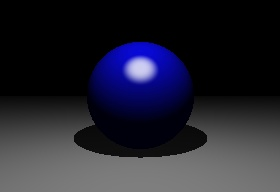
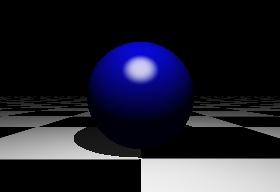
feat: add textures for planes & refactor compute color

diff --git a/raytrace.py b/raytrace.py
@@ -1,11 +1,42 @@
 import numpy as np
 # Local Modules
 from constants import MAX_COLOR_VALUE, RGB_CHANNELS
+import material
 import shaders
 import utils
 
 DARK_VALUE = np.array([15, 15, 15], dtype=float) / MAX_COLOR_VALUE
 LIGHT_VALUE = np.array([240, 240, 240], dtype=float) / MAX_COLOR_VALUE
+
+
+def get_dark_and_light(ph, obj):
+    if obj.material.material_type == material.TYPE_DIFFUSE:
+        dark = DARK_VALUE * obj.material.diffuse
+        light = LIGHT_VALUE * obj.material.diffuse
+    else:
+        u, v = obj.uvmap(ph)
+        texture_color = obj.material.texture.get_color(u, v)
+        dark = DARK_VALUE * texture_color
+        light = LIGHT_VALUE * texture_color
+    return dark, light
+
+
+def use_shader_type(shader_type, nh, l, dark, light, eye, ks, thickness):
+    if shader_type == shaders.TYPE_DIFFUSE_LIGHT:
+        color = shaders.diffuse_light(nh, l)
+    elif shader_type == shaders.TYPE_DIFFUSE_COLORS:
+        color = shaders.diffuse_colors(nh, l, dark, light)
+    elif shader_type == shaders.TYPE_DIFF_SPECULAR:
+        color = shaders.diffuse_with_specular(
+            nh, l, eye, dark, light, ks
+        )
+    elif shader_type == shaders.TYPE_DIFF_SPEC_BORDER:
+        color = shaders.diffuse_specular_border(
+            nh, l, eye, dark, light, ks, thickness
+        )
+    else:
+        color = np.zeros(RGB_CHANNELS)
+    return color
 
 
 def compute_color(ph, eye, obj, lights):
@@ -27,28 +58,15 @@ def compute_color(ph, eye, obj, lights):
         nh = obj.normal_at(ph)
         if nh is None:
             return np.zeros(3)
-        dark = DARK_VALUE * obj.material.diffuse
-        light = LIGHT_VALUE * obj.material.diffuse
+        dark, light = get_dark_and_light(ph, obj)
         ks = obj.material.specular
         thickness = obj.material.border
-        # Choose the corresponding one
-        if obj.shader_type == shaders.TYPE_DIFFUSE_LIGHT:
-            color = shaders.diffuse_light(nh, l)
-        elif obj.shader_type == shaders.TYPE_DIFFUSE_COLORS:
-            color = shaders.diffuse_colors(nh, l, dark, light)
-        elif obj.shader_type == shaders.TYPE_DIFF_SPECULAR:
-            color = shaders.diffuse_with_specular(
-                nh, l, eye, dark, light, ks
-            )
-        elif obj.shader_type == shaders.TYPE_DIFF_SPEC_BORDER:
-            color = shaders.diffuse_specular_border(
-                nh, l, eye, dark, light, ks, thickness
-            )
-        else:
-            color = np.zeros(RGB_CHANNELS)
+        # Choose the corresponding shader
+        color = use_shader_type(
+            obj.shader_type, nh, l, dark, light, eye, ks, thickness
+        )
         final_color += color
     # Ensure the colors are between 0 and 255
-    # (probably it would be good to average the contributions of each light?)
     final_color /= len(lights)
     final_color = np.clip(final_color, 0, MAX_COLOR_VALUE)
     return final_color.astype(np.uint8)

diff --git a/texture.py b/texture.py
@@ -1,0 +1,77 @@
+import numpy as np
+from PIL import Image
+
+
+class Texture:
+    """
+    Represent a texture for the material of an object.
+    """
+    def __init__(self):
+        pass
+
+    def get_color(self, *args):
+        """
+        Return the color for a point in texture coordinates
+        """
+        pass
+
+
+class ImageTexture(Texture):
+    """
+    Represent a texture that uses an image.
+
+    Attributes:
+        img_filename(str): Path to the image file
+        img(numpy.array): Image for this texture as a numpy array
+    """
+    def __init__(self, img_filename):
+        Texture.__init__(self)
+        self.img_filename = img_filename
+        img_obj = Image.open(img_filename)
+        self.img = np.asarray(img_obj)
+        self.h, self.w, _ = self.img.shape
+
+    def get_color(self, u, v):
+        """
+        Get the color for one point (u, v) inside the texture, it doesn't have
+        to be between 0 and 1, this will use tiling.
+
+        Args:
+            u(float): horizontal coordinate of the point
+            v(float): vertical coordinate of the point
+
+        Returns:
+            numpy.array: color for this point, interpolating the 4 closest
+                pixels
+        """
+        # Use tiling
+        u = u - np.floor(u)
+        if u < 0:
+            u = 1 - u
+        v = v - np.floor(v)
+        if v < 0:
+            v = 1 - v
+        x = u * self.w
+        y = v * self.h
+        # Flip y value to go from bottom to top
+        y = self.h - y
+        # Interpolate values of pixel neighborhood of x and y
+        I = int(np.round(x))
+        J = int(np.round(y))
+        # But not in the borders
+        if I == 0 or J == 0 or I == self.w or J == self.h:
+            if I == self.w:
+                I -= 1
+            if J == self.h:
+                J -= 1
+            return self.img[I][J]
+        # t and s are interpolation parameters that go from 0 to 1
+        t = x - I + 0.5
+        s = y - J + 0.5
+        color = (
+            self.img[J - 1][I - 1] * (1 - t) * (1 - s)
+            + self.img[J - 1][I] * t * (1 - s)
+            + self.img[J][I - 1] * (1 - t) * s
+            + self.img[J][I] * t * s
+        )
+        return color

diff --git a/object.py b/object.py
@@ -1,3 +1,8 @@
+import numpy as np
+# Local modules
+import utils
+
+
 class Object:
     """
     Represent a generic object inside the scene that has a specific position,
@@ -18,7 +23,13 @@ class Object:
         """
         Get the normal at point p.
         """
-        return None
+        pass
+
+    def uvmap(self, p):
+        """
+        Map point p into texture coordinates u, v for this object.
+        """
+        pass
 
 
 class Sphere(Object):
@@ -47,13 +58,37 @@ class Plane(Object):
     Attributes:
         position(numpy.array): A 3D point inside the plane
         material(Material): The material to be rendered for this object
-        n(numpy.array): The normal for this plane
+        n(numpy.array): The unit normal for this plane
+        p1(numpy.array): Another point inside this plane
     """
 
-    def __init__(self, position, material, shader_type, n):
-       Object.__init__(self, position, material, shader_type)
-       self.n = n
+    def __init__(self, position, material, shader_type, n, p1, sx=1, sy=1):
+        Object.__init__(self, position, material, shader_type)
+        # Making sure n is normalized
+        self.n = utils.normalize(n)
+        self.p1 = p1
+        self.sx = sx
+        self.sy = sy
+        self.n0 = utils.normalize(p1 - position)
+        self.n1 = np.cross(self.n0, n)
 
     def normal_at(self, p):
         # This doesn't validate that p is in the surface
         return self.n
+
+    def uvmap(self, p):
+        """
+        Map this point into texture coordinates u, v for this Plane.
+
+        Args:
+            p(numpy.array): Point inside this Plane that will be transformed
+                into texture coordinates (u, v)
+
+        Returns:
+            numpy.array: Point (u, v) in texture coordinates
+        """
+        dif_vector = p - self.position
+        u = np.dot(dif_vector, self.n0) / self.sx
+        v = np.dot(dif_vector, self.n1) / self.sy
+        texture_coord = np.array([u, v])
+        return texture_coord

diff --git a/main.py b/main.py
@@ -12,6 +12,7 @@ from object import Plane, Sphere
 from render import render, render_no_aa
 from scene import Scene
 import shaders
+from texture import ImageTexture
 import utils
 
 # Width and Height of the image window in pixels
@@ -23,6 +24,7 @@ H_SAMPLES = 4
 MAX_QUALITY = 95
 DEFAULT_KS = 0.8
 DEFAULT_THICKNESS = 0.7
+PLANE_TEXTURE_FILENAME = "textures/checkers.png"
 OUTPUT_IMG_FILENAME = "output.jpg"
 
 
@@ -50,14 +52,30 @@ def setup_lights():
 def setup_objects():
     # Plane Object
     plane_pos = np.array([0, -25, 0], dtype=float)
-    plane_mtl = Material(material.COLOR_GRAY, material.DIFFUSE)
+    plane_p1 = np.array([1, -25, 0], dtype=float)
+    plane_mtl = Material(material.COLOR_GRAY, material.TYPE_TEXTURED)
     plane_shader = shaders.TYPE_DIFFUSE_COLORS
     plane_normal = np.array([0, 1, 0], dtype=float)
-    plane = Plane(plane_pos, plane_mtl, plane_shader, plane_normal)
+    plane_texture = ImageTexture(PLANE_TEXTURE_FILENAME)
+    plane_mtl.add_texture(plane_texture)
+    plane_sx = 1000
+    plane_sy = 1000
+    plane = Plane(
+        plane_pos,
+        plane_mtl,
+        plane_shader,
+        plane_normal,
+        plane_p1,
+        plane_sx,
+        plane_sy
+    )
     # Sphere Object
     sphere_pos = np.array([0, 0, 100], dtype=float)
     sphere_mtl = Material(
-        material.COLOR_BLUE, material.DIFFUSE, DEFAULT_KS, DEFAULT_THICKNESS
+        material.COLOR_BLUE,
+        material.TYPE_DIFFUSE,
+        DEFAULT_KS,
+        DEFAULT_THICKNESS
     )
     sphere_shader = shaders.TYPE_DIFF_SPECULAR
     sphere_r = 25.0

diff --git a/material.py b/material.py
@@ -1,6 +1,7 @@
 import numpy as np
 
-DIFFUSE = "diffuse"
+TYPE_DIFFUSE = "diffuse"
+TYPE_TEXTURED = "textured"
 # Color values are not in uint8 so just make sure to clip everything to uint8
 # when rendering the final image
 COLOR_BLUE = np.array([10, 10, 230], dtype=float)
@@ -8,8 +9,30 @@ COLOR_GRAY = np.array([135, 135, 135], dtype=float)
 
 
 class Material:
-    def __init__(self, diffuse=COLOR_GRAY, type=DIFFUSE, specular=1, border=1):
+    """
+    This class represents the material that an object will have.
+
+    Attributes:
+        diffuse(numpy.array): RGB color for the diffuse component
+        material_type(str): the type of material like diffuse, textured, etc
+        specular(float): parameter for how specular is this material (use
+            values between 0 and 1)
+        border(float):  parameter for how thick the border is in this material
+            (use values between 0 and 1)
+
+    """
+    def __init__(
+        self,
+        diffuse=COLOR_GRAY,
+        material_type=TYPE_DIFFUSE,
+        specular=1.0,
+        border=1.0
+    ):
         self.diffuse = diffuse
-        self.type = type
+        self.material_type = material_type
         self.specular = specular
         self.border = border
+        self.texture = None
+
+    def add_texture(self, texture):
+        self.texture = texture
